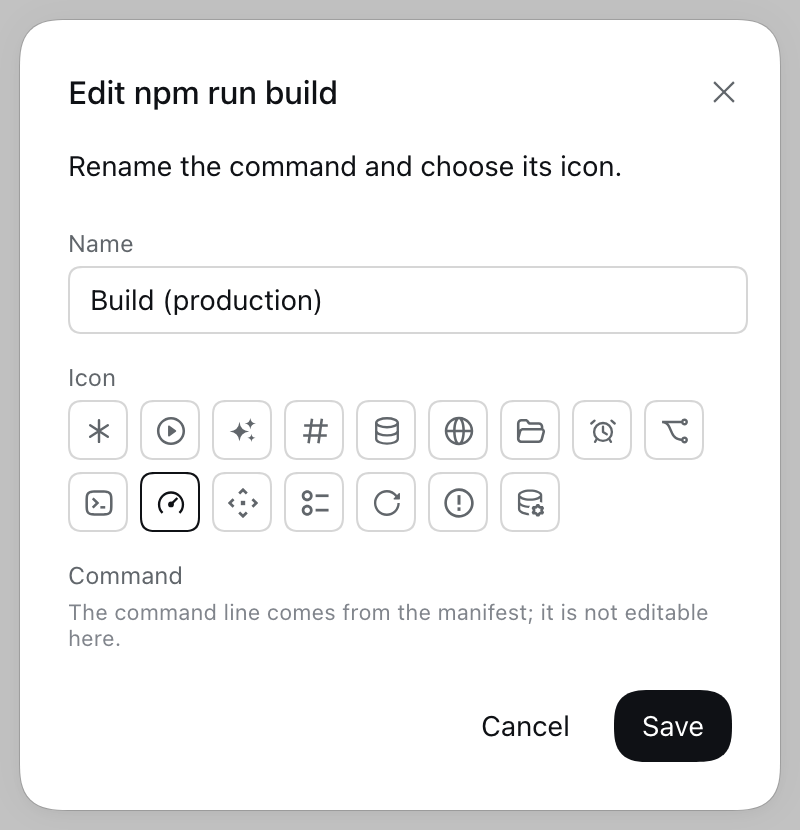
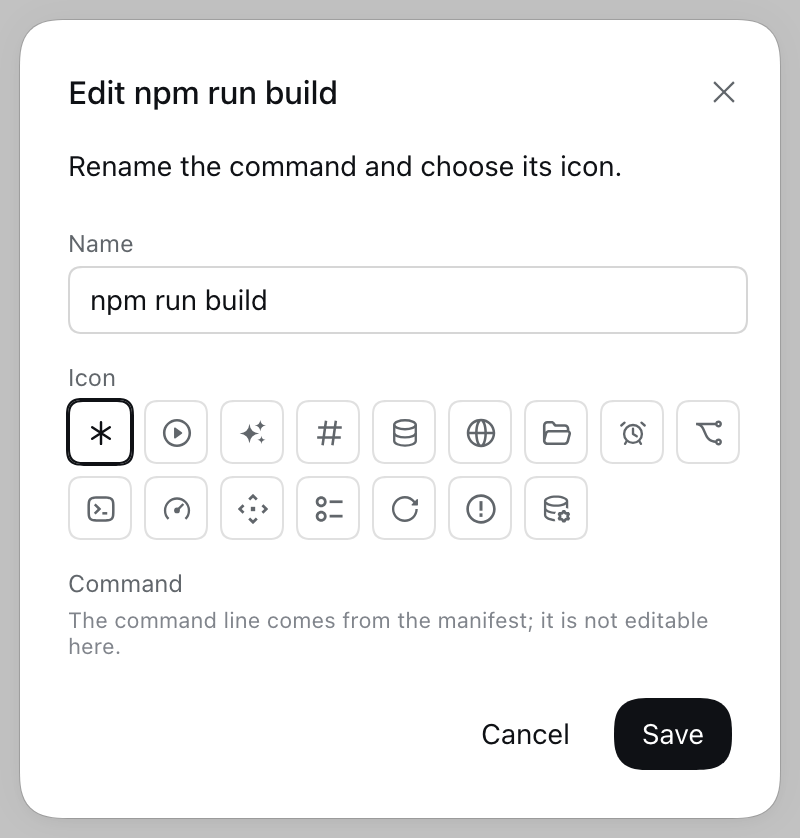
style(ui): draw selected and focused states at a visible weight
A hairline border is one translucent device pixel on a 1x display, which reads
as a rendering fault rather than as a state. Every selected or focused
indication this plugin draws is now twice as heavy:

- the icon picker marks its choice with a double ring instead of a .5px border;
- a focused input field doubles the harness's 1px border with an inset ring;
- the header control, the row handle, the picker and the menu rows all draw a
  2px focus ring;
- the failure dress matches at 2px.

The rings are shadows rather than wider borders, so nothing shifts when a state
changes, and the box an option occupies stays the same size.

diff --git a/lib/client.js b/lib/client.js
@@ -55,7 +55,7 @@ window.__ModuleLoader__.load({
 			'.RUNENV_main{padding:5px 6px 5px 7px;max-width:240px}' +
 			'.RUNENV_main:hover:not(:disabled),.RUNENV_main:focus-visible,.RUNENV_chevron:hover,.RUNENV_chevron:focus-visible{background:var(--dsw-alias-interactive-bg-hover)}' +
 			'.RUNENV_main:disabled{color:var(--dsw-alias-label-dimmed);cursor:default}' +
-			'.RUNENV_main[data-state=error]{color:var(--dsw-alias-state-error-primary);box-shadow:inset 0 0 0 1px var(--dsw-alias-state-error-primary)}' +
+			'.RUNENV_main[data-state=error]{color:var(--dsw-alias-state-error-primary);box-shadow:inset 0 0 0 2px var(--dsw-alias-state-error-primary)}' +
 			'.RUNENV_chevron{border-left:.5px solid var(--dsw-alias-border-l4);color:var(--dsw-alias-label-secondary);padding:5px 6px 5px 4px}' +
 			'.RUNENV_icon{flex:none}' +
 			'.RUNENV_label{overflow:hidden;text-overflow:ellipsis;font-family:var(--dsw-font-markdown-code-font-family,ui-monospace,SFMono-Regular,Menlo,monospace)}' +
@@ -72,9 +72,22 @@ window.__ModuleLoader__.load({
 			'.RUNENV_hint{font-size:11px;color:var(--dsw-alias-label-tertiary)}' +
 			'.RUNENV_error{font-size:11px;color:var(--dsw-alias-state-error-primary)}' +
 			'.RUNENV_icons{display:flex;flex-wrap:wrap;gap:6px}' +
-			'.RUNENV_iconOption{display:inline-flex;align-items:center;justify-content:center;width:30px;height:30px;border:.5px solid var(--dsw-alias-border-l4);border-radius:8px;color:var(--dsw-alias-label-secondary);background:0 0;cursor:pointer}' +
+			'.RUNENV_iconOption{box-sizing:border-box;display:inline-flex;align-items:center;justify-content:center;width:32px;height:32px;border:1px solid var(--dsw-alias-border-l3);border-radius:8px;color:var(--dsw-alias-label-secondary);background:0 0;cursor:pointer}' +
 			'.RUNENV_iconOption:hover{background:var(--dsw-alias-interactive-bg-hover);color:var(--dsw-alias-label-primary)}' +
-			'.RUNENV_iconOption[data-selected=true]{color:var(--dsw-alias-label-primary);border-color:var(--dsw-alias-label-primary)}';
+			// Selecting keeps the box the same size and doubles the ring with a shadow:
+			// a hairline border renders as one translucent device pixel on a 1x
+			// display, which reads as a rendering fault rather than a selection.
+			'.RUNENV_iconOption[data-selected=true]{color:var(--dsw-alias-label-primary);border-color:var(--dsw-alias-label-primary);box-shadow:0 0 0 1px var(--dsw-alias-label-primary)}' +
+			'.RUNENV_iconOption:focus-visible{outline:2px solid var(--dsw-alias-label-primary);outline-offset:2px}' +
+			// Focus rings, in the same weight everywhere this control can take focus.
+			'.RUNENV_main:focus-visible,.RUNENV_chevron:focus-visible{background:var(--dsw-alias-interactive-bg-hover);box-shadow:inset 0 0 0 2px var(--dsw-alias-label-primary)}' +
+			'.RUNENV_more:focus-visible{outline:2px solid var(--dsw-alias-label-primary);outline-offset:1px}' +
+			// The harness draws a focused input as a 1px border, which reads as a
+			// translucent hairline on a 1x display. The inset ring doubles it without
+			// moving anything, and covers mouse and keyboard focus alike.
+			'.RUNENV_form label > span:focus-within{box-shadow:inset 0 0 0 1px var(--dsw-alias-label-primary)}' +
+			'.RUNENV_form input:focus{outline:none}' +
+			'[role="menuitem"]:focus-visible .RUNENV_row,[role="menuitem"]:focus-visible .RUNENV_optionLabel{outline:2px solid var(--dsw-alias-label-primary);outline-offset:1px;border-radius:5px}';
 		const styles = {
 			split: 'RUNENV_split',
 			main: 'RUNENV_main',

diff --git a/CHANGELOG.md b/CHANGELOG.md
@@ -7,6 +7,17 @@ to [Semantic Versioning](https://semver.org/spec/v2.0.0.html).
 
 ## [Unreleased]
 
+## [0.2.5] - 2026-09-17
+
+### Changed
+
+- **Selected and focused states are drawn at a weight you can see.** A hairline border renders as a
+  single translucent device pixel on a 1x display, which reads as a rendering fault rather than a
+  state. The selected icon in the picker now carries a double ring, a focused input field doubles its
+  border with an inset ring, every control this plugin owns draws a 2px focus ring, and the failure
+  dress is 2px like the rest. Nothing moves when a state changes: the rings are shadows, not wider
+  borders.
+
 ## [0.2.4] - 2026-09-17
 
 ### Fixed
@@ -106,7 +117,8 @@ First release: the concept, the architecture, and the Node.js adapter.
 - **61 tests** with `node:test`, no dependencies, offline, covering the model, the workspace layer,
   the registry, the store, the runner, the HTTP surface, and the client bundle contract.
 
-[Unreleased]: https://github.com/albertgranados/dsh-run-environment/compare/v0.2.4...HEAD
+[Unreleased]: https://github.com/albertgranados/dsh-run-environment/compare/v0.2.5...HEAD
+[0.2.5]: https://github.com/albertgranados/dsh-run-environment/compare/v0.2.4...v0.2.5
 [0.2.4]: https://github.com/albertgranados/dsh-run-environment/compare/v0.2.3...v0.2.4
 [0.2.3]: https://github.com/albertgranados/dsh-run-environment/compare/v0.2.2...v0.2.3
 [0.2.2]: https://github.com/albertgranados/dsh-run-environment/compare/v0.2.1...v0.2.2
